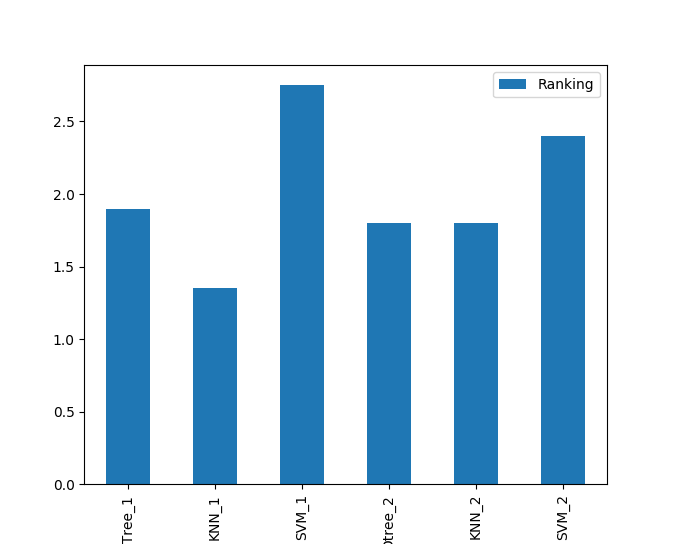
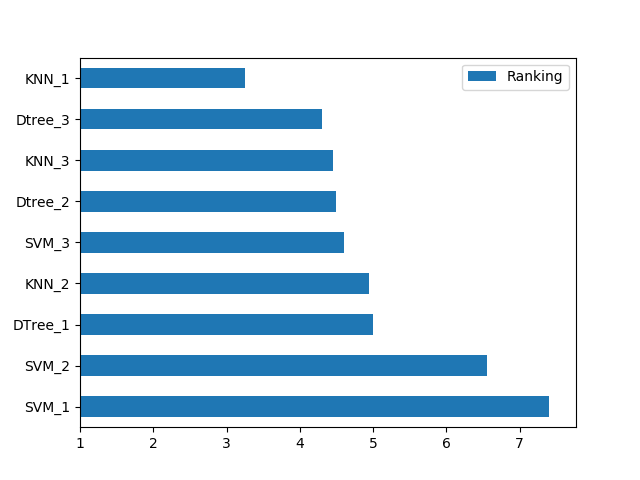
todo comentado hasta la práctica 3

Changed region(s): [[0.0, 0.0938, 0.9062, 1.0], [0.1562, 0.9375, 0.2188, 1.0]]

diff --git a/P3/friedman.py b/P3/friedman.py
@@ -5,32 +5,30 @@ import matplotlib.pyplot as plt
 
 df = pd.read_csv('results.csv', header=0)
 df1 = pd.read_csv('results1.csv', header=0)
+df2 = pd.read_csv('results2.csv', header=0)
 
 data = df.to_numpy()
-data1 = df1.to_numpy()
+data = np.append(data, df1.to_numpy(), axis=1)
+data = np.append(data, df2.to_numpy(), axis=1)
 
 rankings = np.zeros(shape=(data.shape[0], data.shape[1]))
-rankings1 = np.copy(rankings)
 
 for i in range(rankings.shape[0]):
     rankings[i, :] = rankdata(data[i, :])
-    rankings1[i, :] = rankdata(data1[i, :])
 
-files = ['BreastTissue.csv', 'contact-lenses.arff', 'diabetes.arff', 'ecoli.arff',
-               'glass.arff', 'ionosphere.arff', 'divorce.arff', 'vote.arff', 'zoo.arff',
-               'segment.arff']
+
+# files = ['BreastTissue.csv', 'contact-lenses.arff', 'diabetes.arff', 'ecoli.arff','glass.arff',
+#          'ionosphere.arff', 'divorce.arff', 'vote.arff', 'zoo.arff', 'segment.arff']
 
 final = np.copy(rankings.mean(axis=0))
-final = np.append(final, rankings1.mean(axis=0))
-final = final.reshape((6, 1))
+final = final.reshape((9, 1))
 
 
-new_df = pd.DataFrame(final, index=['DTree_1', 'KNN_1', 'SVM_1', 'Dtree_2', 'KNN_2', 'SVM_2'], columns=['Ranking'])
-# new_df1 = pd.DataFrame(rankings1, index=files, columns=['DecisionTree', 'KNN', 'SVM'])
+new_df = pd.DataFrame(final, index=['DTree_1', 'KNN_1', 'SVM_1', 'Dtree_2', 'KNN_2', 'SVM_2', 'Dtree_3', 'KNN_3', 'SVM_3'], columns=['Ranking'])
+new_df = new_df.sort_values(by='Ranking', ascending=False)
 
-new_df.plot.bar()
-# new_df1.plot.line()
-
+new_df.plot.barh()
+plt.xlim(left=1)
 plt.show()
 
 

diff --git a/P3/search.py b/P3/search.py
@@ -31,9 +31,8 @@ grid_values1 = {
 }
 
 grid_values2 = {
-    'C': [1e-3, 1e-2, 1e-1, 1, 10, 100, 1000],
-    'kernel': ['linear', 'poly', 'rbf', 'sigmoid'],
-    'degree': [1, 2, 3, 4, 5, 6, 7, 8]
+    'C': [1e-1, 1, 10, 100],
+    'kernel': ['linear'],
 }
 
 
@@ -65,7 +64,7 @@ for i in classify:
 #    gridKnn.fit(X_train, y_train)
 #    print(accuracy_score(y_test, gridKnn.predict(X_test)))
 
-    gridsvm = GridSearchCV(clf2, param_grid=grid_values2, scoring='accuracy', n_jobs=-1)
+    gridsvm = GridSearchCV(clf2, param_grid=grid_values2, scoring='accuracy', n_jobs=-1, cv=3)
     gridsvm.fit(X_train, y_train)
     print(accuracy_score(y_test, gridsvm.predict(X_test)))
 

diff --git a/P3/classifiers.py b/P3/classifiers.py
@@ -61,7 +61,7 @@ for i in to_classify:
     knnaccuracy.append(accuracy2.mean())
 
     print("SVM")
-    clf2 = svm.SVC(kernel='poly', C=15, random_state=42)
+    clf2 = svm.SVC(kernel='linear', C=0.01, random_state=42)
     accuracy3 = cross_val_score(clf2, X, Y, cv=10,
                                 scoring='accuracy')
 

diff --git a/P3/davenport.py b/P3/davenport.py
@@ -1,5 +1,4 @@
 from scipy.stats import friedmanchisquare, f
-import numpy as np
 import pandas as pd
 
 df = pd.read_csv('results.csv', header=0)
